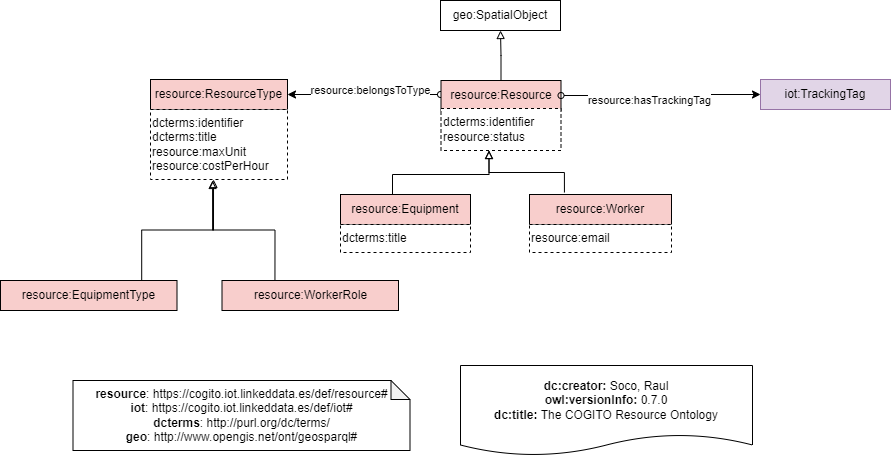
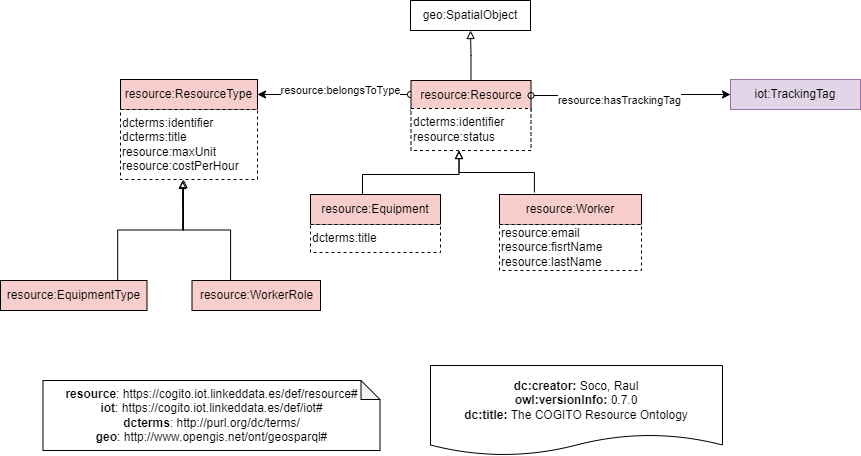
v0.7.0 update

diff --git a/documentation/index-en.html b/documentation/index-en.html
@@ -6,7 +6,7 @@
 
 
 <!-- SCHEMA.ORG METADATA -->
-<script type="application/ld+json">{"@context":"https://schema.org","@type":"TechArticle","url":"https://cogito.iot.linkeddata.es/def/resource#","image":"http://vowl.visualdataweb.org/webvowl/#iri=https://cogito.iot.linkeddata.es/def/resource#","name":"Resource ontology", "headline":"The COGITO Resource ontology aims at modelling the resources in the construction domain.", "datePublished":"Fri Oct 14 19:11:46 CEST 2022", "version":"0.7.0", "license":"http://purl.org/NET/rdflicense/cc-by4.0", "author":[{"@type":"Person","name":"María Poveda Villalón"},{"@type":"Person","name":"Raúl García Castro"},{"@type":"Person","name":"Socorro  Bernardos Galindo"}]}</script>
+<script type="application/ld+json">{"@context":"https://schema.org","@type":"TechArticle","url":"https://cogito.iot.linkeddata.es/def/resource#","image":"http://vowl.visualdataweb.org/webvowl/#iri=https://cogito.iot.linkeddata.es/def/resource#","name":"Resource ontology", "headline":"The COGITO Resource ontology aims at modelling resources in the construction domain.", "datePublished":"Fri Jan 13 12:25:29 CET 2023", "version":"0.7.0", "license":"http://purl.org/NET/rdflicense/cc-by4.0", "author":[{"@type":"Person","name":"María Poveda Villalón"},{"@type":"Person","name":"Raúl García Castro"},{"@type":"Person","name":"Socorro  Bernardos Galindo"}]}</script>
 
 <script src="resources/jquery.js"></script> 
 <script src="resources/marked.min.js"></script> 
@@ -79,7 +79,7 @@ $(function(){
 <span>Ontology Specification Draft</span>
 </div>
 </div>     <div id="abstract"><h2>Abstract</h2><span class="markdown">
-The COGITO Resource ontology aims at modelling the resources in the construction domain.</span>
+The COGITO Resource ontology aims at modelling resources in the construction domain.</span>
 </div>
 <div id="toc"></div> 
 
@@ -97,6 +97,7 @@ This document describes the results of the Resource ontology for the COGITO proj
 <tr><td><b>geo</b></td><td>&lt;http://www.opengis.net/ont/geosparql&gt;</td></tr>
 <tr><td><b>owl</b></td><td>&lt;http://www.w3.org/2002/07/owl&gt;</td></tr>
 <tr><td><b>rdf</b></td><td>&lt;http://www.w3.org/1999/02/22-rdf-syntax-ns&gt;</td></tr>
+<tr><td><b>terms</b></td><td>&lt;http://purl.org/dc/terms&gt;</td></tr>
 <tr><td><b>xml</b></td><td>&lt;http://www.w3.org/XML/1998/namespace&gt;</td></tr>
 <tr><td><b>saref</b></td><td>&lt;https://saref.etsi.org/core&gt;</td></tr>
 <tr><td><b>xsd</b></td><td>&lt;http://www.w3.org/2001/XMLSchema&gt;</td></tr>
@@ -171,7 +172,15 @@ This ontology has the following classes and properties.</span>
          title="https://cogito.iot.linkeddata.es/def/resource#email">email</a>
    </li>
    <li>
+      <a href="#firstName"
+         title="https://cogito.iot.linkeddata.es/def/resource#firstName">first name</a>
+   </li>
+   <li>
       <a href="#http://purl.org/dc/terms/identifier" title="http://purl.org/dc/terms/identifier">identifier</a>
+   </li>
+   <li>
+      <a href="#lastName"
+         title="https://cogito.iot.linkeddata.es/def/resource#lastName">last name</a>
    </li>
    <li>
       <a href="#maxUnit"
@@ -499,7 +508,15 @@ This section provides details for each class and property defined by Resource on
             title="https://cogito.iot.linkeddata.es/def/resource#email">email</a>
       </li>
       <li>
+         <a href="#firstName"
+            title="https://cogito.iot.linkeddata.es/def/resource#firstName">first name</a>
+      </li>
+      <li>
          <a href="#http://purl.org/dc/terms/identifier" title="http://purl.org/dc/terms/identifier">identifier</a>
+      </li>
+      <li>
+         <a href="#lastName"
+            title="https://cogito.iot.linkeddata.es/def/resource#lastName">last name</a>
       </li>
       <li>
          <a href="#maxUnit"
@@ -535,6 +552,17 @@ This section provides details for each class and property defined by Resource on
          <span class="markdown">Property indicating the email of an entity (especially a resource:Worker)</span>
       </div>
    </div>
+   <div class="entity" id="firstName">
+      <h3>first name<sup class="type-dp" title="data property">dp</sup>
+         <span class="backlink"> back to <a href="#toc">ToC</a> or <a href="#dataproperties">Data Property ToC</a>
+         </span>
+      </h3>
+      <p>
+         <strong>IRI:</strong> https://cogito.iot.linkeddata.es/def/resource#firstName</p>
+      <div class="comment">
+         <span class="markdown">Property indicating the first name of an entity (especially a resource:Worker)</span>
+      </div>
+   </div>
    <div class="entity" id="http://purl.org/dc/terms/identifier">
       <h3>identifier<sup class="type-dp" title="data property">dp</sup>
          <span class="backlink"> back to <a href="#toc">ToC</a> or <a href="#dataproperties">Data Property ToC</a>
@@ -548,6 +576,17 @@ This section provides details for each class and property defined by Resource on
             <a href="http://purl.org/dc/terms/">http://purl.org/dc/terms/</a>
          </dd>
       </dl>
+   </div>
+   <div class="entity" id="lastName">
+      <h3>last name<sup class="type-dp" title="data property">dp</sup>
+         <span class="backlink"> back to <a href="#toc">ToC</a> or <a href="#dataproperties">Data Property ToC</a>
+         </span>
+      </h3>
+      <p>
+         <strong>IRI:</strong> https://cogito.iot.linkeddata.es/def/resource#lastName</p>
+      <div class="comment">
+         <span class="markdown">Property indicating the last name of an entity (especially a resource:Worker)</span>
+      </div>
    </div>
    <div class="entity" id="maxUnit">
       <h3>maximum number of units<sup class="type-dp" title="data property">dp</sup>
